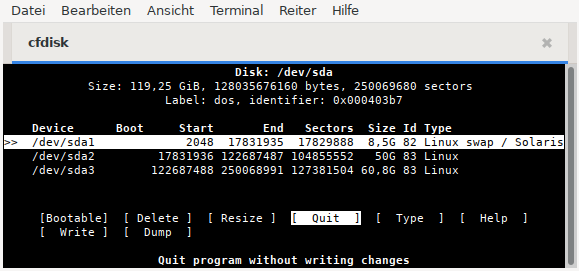
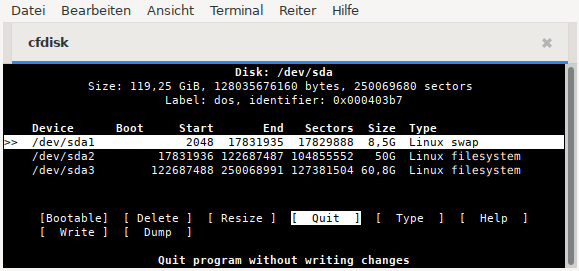
Aktualisiert auf neuere fdisk Version

Changed region(s): [[0.6839, 0.4428, 0.9948, 0.6494]]

diff --git a/data/de/0314-part-cfdisk_de.md b/data/de/0314-part-cfdisk_de.md
@@ -2,12 +2,11 @@
 
 ## Partitionieren mit fdisk
 
-**fdisk** und **cfdisk** erstellt MBR-Partitionstabellen auf Basis des BIOS. Im Jahr 2000 begann die Einführung von GPT-Partitionstabellen auf Basis des UEFI. 
+**fdisk** und das mit einer benutzerfreundlicheren ncurses Oberfläche versehene **cfdisk** erlauben die Bearbeitung von MBR Partitionstabellen auf Basis des BIOS und GPT Partitionstabellen auf Basis des UEFI. Allerdings können sie nur MBR Partitionstabellen erstellen.
 
-Der neuere Standard **G**lobally Unique Identifier **P**artition **T**able (GPT), der Teil des UEFI-Standards ist, hat bei aktueller Hardware den MBR ersetzt und erlaubt Platten/Partitionen größer als 2 TByte und eine theoretisch unbegrenzte Anzahl primärer Partitionen. Weitere Informationen dazu gibt es in [Wikipedia GUID-Partitionstabelle](https://de.wikipedia.org/wiki/GUID_Partition_Table)
+Im Jahr 2000 begann die Einführung von GPT Partitionstabellen auf Basis des UEFI. Der neuere Standard **G**lobally Unique Identifier **P**artition **T**able (GPT), der Teil des UEFI Standards ist, hat bei aktueller Hardware den MBR ersetzt und erlaubt Platten/Partitionen größer als 2 TByte und eine theoretisch unbegrenzte Anzahl primärer Partitionen. Weitere Informationen dazu gibt es in [Wikipedia GUID-Partitionstabelle](https://de.wikipedia.org/wiki/GUID_Partition_Table)
 
-Wir empfehlen die Partitionierung mit fdisk und cfdisk ausschließlich für ältere Hardware.  
-Zum Erstellen von GPT-Partitionstabellen bitte die Handbuchseite [Partitionieren mit gdisk](0313-part-gdisk_de.md#partitionieren-mit-gdisk) zu Rate ziehen.
+Zum Erstellen von GPT Partitionstabellen das Kommandozeilenprogramm `parted` verwenden oder die Handbuchseite [Partitionieren mit gdisk](0313-part-gdisk_de.md#partitionieren-mit-gdisk) zu Rate ziehen.
 
 ### Benennung von Speichergeräten
 
@@ -34,27 +33,27 @@ Disklabel type: dos
 Disk identifier: 0x6513a8ff
 
 Device   Boot   Start       End   Sectors Size Id Type
-/dev/sda1        2048  41945087  41943040  20G 83 Linux
-/dev/sda2    41945088  83888127  41943040  20G 83 Linux
+/dev/sda1        2048  41945087  41943040  20G 83 Linux filesystem
+/dev/sda2    41945088  83888127  41943040  20G 83 Linux filesystem
 /dev/sda3    83888128  88291327   4403200 2,1G 82 Linux swap
 /dev/sda4    88291328 312581807 224290480 107G  5 Extended
-/dev/sda5    88293376 249774079 161480704  77G 83 Linux
-/dev/sda6   249776128 281233407  31457280  15G 83 Linux
-/dev/sda7   281235456 312581807  31346352  15G 83 Linux
+/dev/sda5    88293376 249774079 161480704  77G 83 Linux filesystem
+/dev/sda6   249776128 281233407  31457280  15G 83 Linux filesystem
+/dev/sda7   281235456 312581807  31346352  15G 83 Linux filesystem
 
 
-Disk /dev/sdb: 119,25 GiB, 128035676160 bytes, 250069680 sectors
-Disk model: Samsung SSD 850 
+Disk /dev/nvme0n1: 465,76 GiB, 500107862016 bytes, 976773168 sectors
+Disk model: CT500P3SSD8
 Units: sectors of 1 * 512 = 512 bytes
 Sector size (logical/physical): 512 bytes / 512 bytes
 I/O size (minimum/optimal): 512 bytes / 512 bytes
-Disklabel type: dos
-Disk identifier: 0x000403b7
+Disklabel type: gpt
+Disk identifier: 9DF814ED-0169-4EA5-8E77-D2F7639CCDD3
 
-Device   Boot  Start       End   Sectors  Size Id Type
-/dev/sdb1       2048  17831935  17829888  8,5G 82 Linux swap
-/dev/sdb2   17831936 122687487 104855552   50G 83 Linux
-/dev/sdb3  122687488 250068991 127381504 60,8G 83 Linux
+Device             Start       End   Sectors  Size Type
+/dev/nvme0n1p1      2048    206847    204800  100M EFI System
+/dev/nvme0n1p2    206848 922953727 922746880  440G Linux filesystem
+/dev/nvme0n1p3 922953728 976766975  53813248 25,7G Linux swap
 ~~~
 
 Mit dem Befehl  
@@ -62,7 +61,7 @@ Mit dem Befehl
 
 **Partitionen**
 
-Die Partitionen auf einer MBR-Festplatte werden durch eine Zahl zwischen 1 und 15 definiert. Es sind maximal 14 mountbare Partitionen möglich.
+Die Partitionen auf einer MBR Festplatte werden durch eine Zahl zwischen 1 und 15 definiert. Es sind maximal 14 mountbare Partitionen möglich.
 
 Es gibt folgende Partitionstypen:  
 primäre, erweiterte und logische.
@@ -70,7 +69,7 @@ primäre, erweiterte und logische.
 Die logischen Partitionen befinden sich innerhalb der erweiterten Partition. Es sind maximal vier primäre bzw. drei primäre und eine erweiterte Partition anlegbar. Die erweiterte Partition wiederum kann bis zu elf logische Partitionen enthalten.  
 Primäre oder erweiterte Partitionen erhalten eine Bezeichnung zwischen 1 und 4 (zum Beispiel sda1 bis sda4). Logische Partitionen sind immer gebündelt und Teil einer erweiterten Partition. Mit libata können maximal elf logische Partitionen definiert werden, und ihre Bezeichnungen beginnen mit Nummer 5 und enden höchstens mit Nummer 15.
 
-**Beispiele**
+**Beispiel**
 
 ~~~
 4 Partitionen (alles primäre):
@@ -88,9 +87,9 @@ Primäre oder erweiterte Partitionen erhalten eine Bezeichnung zwischen 1 und 4 
                |sda5|sda6|sda7|
 ~~~
 
-*"/dev/sda5"*  kann nur eine logische Partition sein (in diesem Fall die erste logische auf diesem Gerät). Sie befindet sich auf der ersten Festplatte des Computers (abhängig von der BIOS-Konfiguration).
+*"/dev/sda5"* kann nur eine logische Partition sein (in diesem Fall die erste logische auf diesem Gerät).
 
-*"/dev/sdb3"*  kann nur eine primäre oder erweiterte Partition sein. Der Buchstabe "b" indiziert, dass diese Partition sich auf einem anderen Gerät befindet als die Partition des ersten Beispiels, welche den Buchstaben "a" enthält.
+*"/dev/nvme0n1p2"* ist die zweite Partition auf einer M.2 HD mit einer GPT Partitionstabelle. Die Einschränkungen der MBR Partitionstabelle gelten hier nicht.
 
 ### Cfdisk verwenden
 
@@ -118,9 +117,9 @@ Wir haben auf der Beispielfestplatte drei Partitionen.
 
 | Device | Part. Größe | Part. Typ | Mountpoint |
 | :---: | :---: | :---: | :---: |
-| /dev/sda1 | 8,5G | 82 Swap | - |
-| /dev/sda2 | 50,0G | 83 Linux | / |
-| /dev/sda3 | 60,8G | 83 Linux | /Daten |
+| /dev/sda1 | 8,5G | Linux swap | - |
+| /dev/sda2 | 50,0G | Linux filesystem | / |
+| /dev/sda3 | 60,8G | Linux filesystem | /Daten |
 
 Aus der Daten-Partition möchten wir die Verzeichnisse `/Bilder` und `/Musik` in eigene Partitionen auslagern und dafür mehr Platz schaffen. Gleichzeitig sollen diese auch für ein auf einer weiteren Festplatte residierendes Windows zugänglich sein. Die Root-Partition ist mit 50 GB überdimensioniert und wird verkleinert.
 
@@ -168,7 +167,7 @@ So sieht das Ergebnis aus.
 **Partitionstyp**
 
 Um den Typ einer Partition zu ändern, markiert man die gewünschte Partition und wählt den Befehl **`Type`** aus.  
-Es erscheint eine Auswahlliste in der mit den Pfeiltasten auf und ab der Partitionstyp gewählt wird. In unserem Beispiel wählen wir für die Partitionen `/dev/sda5` und `/dev/sda6` den Typ *"7 HPFS/NTFS/exFAT"* aus. So kann das oben erwähnte Windows auf die Partition zugreifen.
+Es erscheint eine Auswahlliste in der mit den Pfeiltasten auf und ab der Partitionstyp gewählt wird. In unserem Beispiel wählen wir für die Partitionen `/dev/sda5` und `/dev/sda6` den Typ *"Microsoft storage Spaces"* aus. So kann das oben erwähnte Windows auf die Partition zugreifen. Zusätzlich wird unten der GUID Code zum Partitionstyp angezeigt.
 
 ![Partitionstyp auswählen](./images-de/cfdisk/cfdisk_11.png)
 
@@ -190,7 +189,7 @@ Mit dem Befehl **`Quit`** verlassen wir das Programm. Nach Beendigung von cfdisk
 
 ### Formatieren von Partitionen
 
-Es gibt für Linux verschiedene Filesysteme, die man benutzen kann. Da wären **Ext2**, **Ext4**, **ReiserFs** und für erfahrenere Anwender **XFS**, **JFS** und **ZFS**.  
+Es gibt für Linux verschiedene Filesysteme, die man benutzen kann. Da wären **Ext2**, **Ext4**, **Btrfs**, **XFS**, **JFS** und **ZFS**.  
 Ext2 kann von Interesse sein, wenn man von Windows aus zugreifen möchte, da es Windows-Treiber für dieses Dateisystem gibt. [Ext2-Dateisystem für MS Windows (Treiber und englischsprachige Doku)](http://www.fs-driver.org/).
 
 Für normalen Gebrauch empfehlen wir das Dateisystem **ext4**. Es ist das Standard-Dateisystem von siduction. 
@@ -208,7 +207,7 @@ Proceed anyway? (y,N)
 
 Die Abfrage wird mit **`y`** beantwortet, wenn man darin sicher ist, dass die richtige Partition formatiert werden soll. Bitte mehrfach überprüfen!
 
-Nach Abschluss der Formatierung muss die Meldung erfolgen, dass **ext4** erfolgreich geschrieben wurde. Ist das nicht der Fall, ist bei der Partitionierung etwas schiefgelaufen oder *"sdaX"* ist keine Linux-Partition. Wir überprüfen mit:
+Nach Abschluss der Formatierung muss die Meldung erfolgen, dass **ext4** erfolgreich geschrieben wurde. Ist das nicht der Fall, ist bei der Partitionierung etwas schiefgelaufen oder **sdaX** ist keine Linux-Partition. Wir überprüfen mit:
 
 ~~~
 fdisk -l /dev/sda
@@ -216,7 +215,7 @@ fdisk -l /dev/sda
 
 Wenn etwas falsch ist, muss gegebenenfalls noch einmal partitioniert werden.
 
-War die Formatierung erfolgreich, so wird dieser Ablauf für die anderen Partitionen wiederholt, wobei der Befehl entsprechend des Partitions-Typ und des gewünschten Dateisystem anzupassen ist. (z. B.: `mkfs.ext2` oder `mkfs.vfat` oder `mkfs.ntfs` usw.)
+War die Formatierung erfolgreich, so wird dieser Ablauf für die anderen Partitionen wiederholt, wobei der Befehl entsprechend des Partitions-Typ und des gewünschten Dateisystem anzupassen ist. (z. B.: `mkfs.ext2` oder `mkfs.vfat` oder `mkfs.btrfs` usw.)
 Bitte die Manpage **`man mkfs`** lesen.
 
 Zuletzt wird die Swap-Partition formatiert, in diesem Fall **sda1**:
@@ -248,4 +247,4 @@ Anschließend informieren wir den Kernel über die Änderungen mit dem Befehl **
 
 Jetzt kann die Installation beginnen.
 
-<div id="rev">Zuletzt bearbeitet: 2023-11-09</div>
+<div id="rev">Zuletzt bearbeitet: 2026-02-16</div>

diff --git a/data/en/0314-part-cfdisk_en.md b/data/en/0314-part-cfdisk_en.md
@@ -2,12 +2,11 @@
 
 ## Partitioning with fdisk
 
-**fdisk** and **cfdisk** create MBR partition tables based on the BIOS. The introduction of GPT partition tables based on UEFI began in 2000.
+**fdisk** and **cfdisk**, which has a more user-friendly ncurses interface, allow you to edit MBR partition tables based on BIOS and GPT partition tables based on UEFI. However, they can only create MBR partition tables.
 
-The newer **G**lobally Unique Identifier **P**artition **T**able (GPT) standard, which is part of the UEFI standard, has replaced MBR on current hardware and allows disks/partitions larger than 2 TBytes and a theoretically unlimited number of primary partitions. More information about this can be found in [Wikipedia GUID partition table](https://en.wikipedia.org/wiki/GUID_Partition_Table).
+The introduction of GPT partition tables based on UEFI began in 2000. The newer **G**lobally Unique Identifier **P**artition **T**able (GPT) standard, which is part of the UEFI standard, has replaced MBR on current hardware and allows disks/partitions larger than 2 TBytes and a theoretically unlimited number of primary partitions. More information about this can be found in [Wikipedia GUID partition table](https://en.wikipedia.org/wiki/GUID_Partition_Table).
 
-We recommend to use *fdisk* and *cfdisk* only for partitioning on older hardware.  
-For creating GPT partition tables, please refer to the manual page [Partitioning with gdisk](0313-part-gdisk_en.md#partitioning-with-gdisk).
+To create GPT partition tables, use the command line program `parted` or consult the manual page [Partitioning with gdisk](0313-part-gdisk_en.md#partitioning-with-gdisk).
 
 ### Naming storage devices
 
@@ -31,30 +30,30 @@ Units: sectors of 1 * 512 = 512 bytes
 Sector size (logical/physical): 512 bytes / 512 bytes
 I/O size (minimum/optimal): 512 bytes / 512 bytes
 Disklabel type: dos
-Disk identifier: 0x6513a8ff
+Disk identifier: 0xfa46a8fa
 
 Device   Boot   Start       End   Sectors Size Id Type
-/dev/sda1        2048  41945087  41943040  20G 83 Linux
-/dev/sda2    41945088  83888127  41943040  20G 83 Linux
+/dev/sda1        2048  41945087  41943040  20G 83 Linux filesystem
+/dev/sda2    41945088  83888127  41943040  20G 83 Linux filesystem
 /dev/sda3    83888128  88291327   4403200 2,1G 82 Linux swap
 /dev/sda4    88291328 312581807 224290480 107G  5 Extended
-/dev/sda5    88293376 249774079 161480704  77G 83 Linux
-/dev/sda6   249776128 281233407  31457280  15G 83 Linux
-/dev/sda7   281235456 312581807  31346352  15G 83 Linux
+/dev/sda5    88293376 249774079 161480704  77G 83 Linux filesystem
+/dev/sda6   249776128 281233407  31457280  15G 83 Linux filesystem
+/dev/sda7   281235456 312581807  31346352  15G 83 Linux filesystem
 
 
-Disk /dev/sdb: 119,25 GiB, 128035676160 bytes, 250069680 sectors
-Disk model: Samsung SSD 850 
+Disk /dev/nvme0n1: 465,76 GiB, 500107862016 bytes, 976773168 sectors
+Disk model: CT500P3SSD8
 Units: sectors of 1 * 512 = 512 bytes
 Sector size (logical/physical): 512 bytes / 512 bytes
 I/O size (minimum/optimal): 512 bytes / 512 bytes
-Disklabel type: dos
-Disk identifier: 0x000403b7
+Disklabel type: gpt
+Disk identifier: 9DA612ED-0184-4CAD-837B-1247F32C9DA6
 
-Device   Boot  Start       End   Sectors  Size Id Type
-/dev/sdb1       2048  17831935  17829888  8.5G 82 Linux swap
-/dev/sdb2   17831936 122687487 104855552   50G 83 Linux
-/dev/sdb3  122687488 250068991 127381504 60,8G 83 Linux
+Device             Start       End   Sectors  Size Type
+/dev/nvme0n1p1      2048    206847    204800  100M EFI System
+/dev/nvme0n1p2    206848 922953727 922746880  440G Linux filesystem
+/dev/nvme0n1p3 922953728 976766975  53813248 25,7G Linux swap
 ~~~
 
 By entering the command  
@@ -70,7 +69,7 @@ primary, extended, and logical.
 The logical partitions are located within the extended partition. A maximum of four primary or three primary and one extended partition can be created. The extended partition, in turn, can contain up to eleven logical partitions.  
 Primary or extended partitions are given a designator between 1 and 4 (for example sda1 to sda4). Logical partitions are always bundled and part of an extended partition. A maximum of eleven logical partitions can be defined with *libata*, and their names start with number 5 and end with number 15 at most.
 
-**Examples**
+**Example**
 
 ~~~
 4 partitions (all primary):
@@ -90,7 +89,7 @@ Primary or extended partitions are given a designator between 1 and 4 (for examp
 
 **/dev/sda5** can only be a logical partition (in this case the first logical one on this device). It is located on the first hard disk of the computer (depending on the BIOS configuration).
 
-**/dev/sdb3** can only be a primary or extended partition. The letter "b" indicates that this partition is on a different device than the partition of the first example, which contains the letter "a".
+**/dev/nvme0n1p2** is the second partition on an M.2 HD with a GPT partition table. The restrictions of the MBR partition table do not apply here.
 
 ### Use cfdisk
 
@@ -118,9 +117,9 @@ We have three partitions on the example disk.
 
 | Device | Part. Size | Part. Type | Mountpoint |
 | --- | ---: | :---: | ---: |
-| /dev/sda1 | 8.5G | 82 Swap | - |
-| /dev/sda2 | 50.0G | 83 Linux | / |
-| /dev/sda3 | 60.8G | 83 Linux | /data |
+| /dev/sda1 | 8,5G | Linux swap | - |
+| /dev/sda2 | 50,0G | Linux filesystem | / |
+| /dev/sda3 | 60,8G | Linux filesystem | /Daten |
 
 From the data partition, we want to move the directories `Pictures` and `Music` to their own partitions and create more space for them. At the same time, they should be accessible for a Windows system residing on another harddisk. The root partition is oversized with 50 GB and will be reduced.
 
@@ -166,7 +165,7 @@ This is how the result looks like.
 **Partition type**
 
 To change the type of a partition, select the desired partition and choose the command *"Type"*.  
-A selection list appears in which the partition type can be selected with the arrow keys **`up`** and **`down`**. In our example, we select "*7 HPFS/NTFS/exFAT*" for the partitions **/dev/sda5** and **/dev/sda6**. This way, the above mentioned Windows system can access the partition.
+A selection list appears in which the partition type can be selected with the arrow keys **`up`** and **`down`**. In our example, we select "*Microsoft storage Spaces*" for the partitions **/dev/sda5** and **/dev/sda6**. This way, the above mentioned Windows system can access the partition. In addition, the GUID code for the partition type is displayed below.
 
 ![partition select type](./images-en/cfdisk/cfdisk_11.png)
 
@@ -188,7 +187,7 @@ By entering the command *"Quit"*, we can quit the program. After leaving `cfdisk
 
 ### Formatting partitions
 
-There are several file systems for Linux that can be used. There are **Ext2**, **Ext4**, **ReiserFs**, and for more experienced users **XFS**, **JFS**, and **ZFS**.  
+There are several file systems for Linux that can be used. There are **Ext2**, **Ext4**, **Btrfs**, **XFS**, **JFS**, and **ZFS**.  
 **Ext2** may be of interest when accessing from Windows, as there are Windows drivers for this file system. [Ext2 file system for MS Windows (drivers and documentation)](http://www.fs-driver.org/).
 
 For normal use, we recommend the **ext4** file system. It is siduction's default file system. 
@@ -214,7 +213,7 @@ fdisk -l /dev/sda
 
 If something is wrong, you may have to partition again.
 
-If the formatting was successful, this procedure can be repeated for the other partitions, adapting the command according to the partition type and the desired file system (e.g.: **`mkfs.ext2`** or **`mkfs.vfat`** or **`mkfs.ntfs`**, etc.).
+If the formatting was successful, this procedure can be repeated for the other partitions, adapting the command according to the partition type and the desired file system (e.g.: `mkfs.ext2` or `mkfs.vfat` or `mkfs.btrfs`, etc.).
 Please read the man page **man mkfs**.
 
 Finally, format the swap partition, in this case sda1:
@@ -246,4 +245,4 @@ We then inform the kernel about the changes with the command **`systemctl daemon
 
 Now the installation can begin.
 
-<div id="rev">Last edited: 2023/11/09</div>
+<div id="rev">Last edited: 2026/02/16</div>
